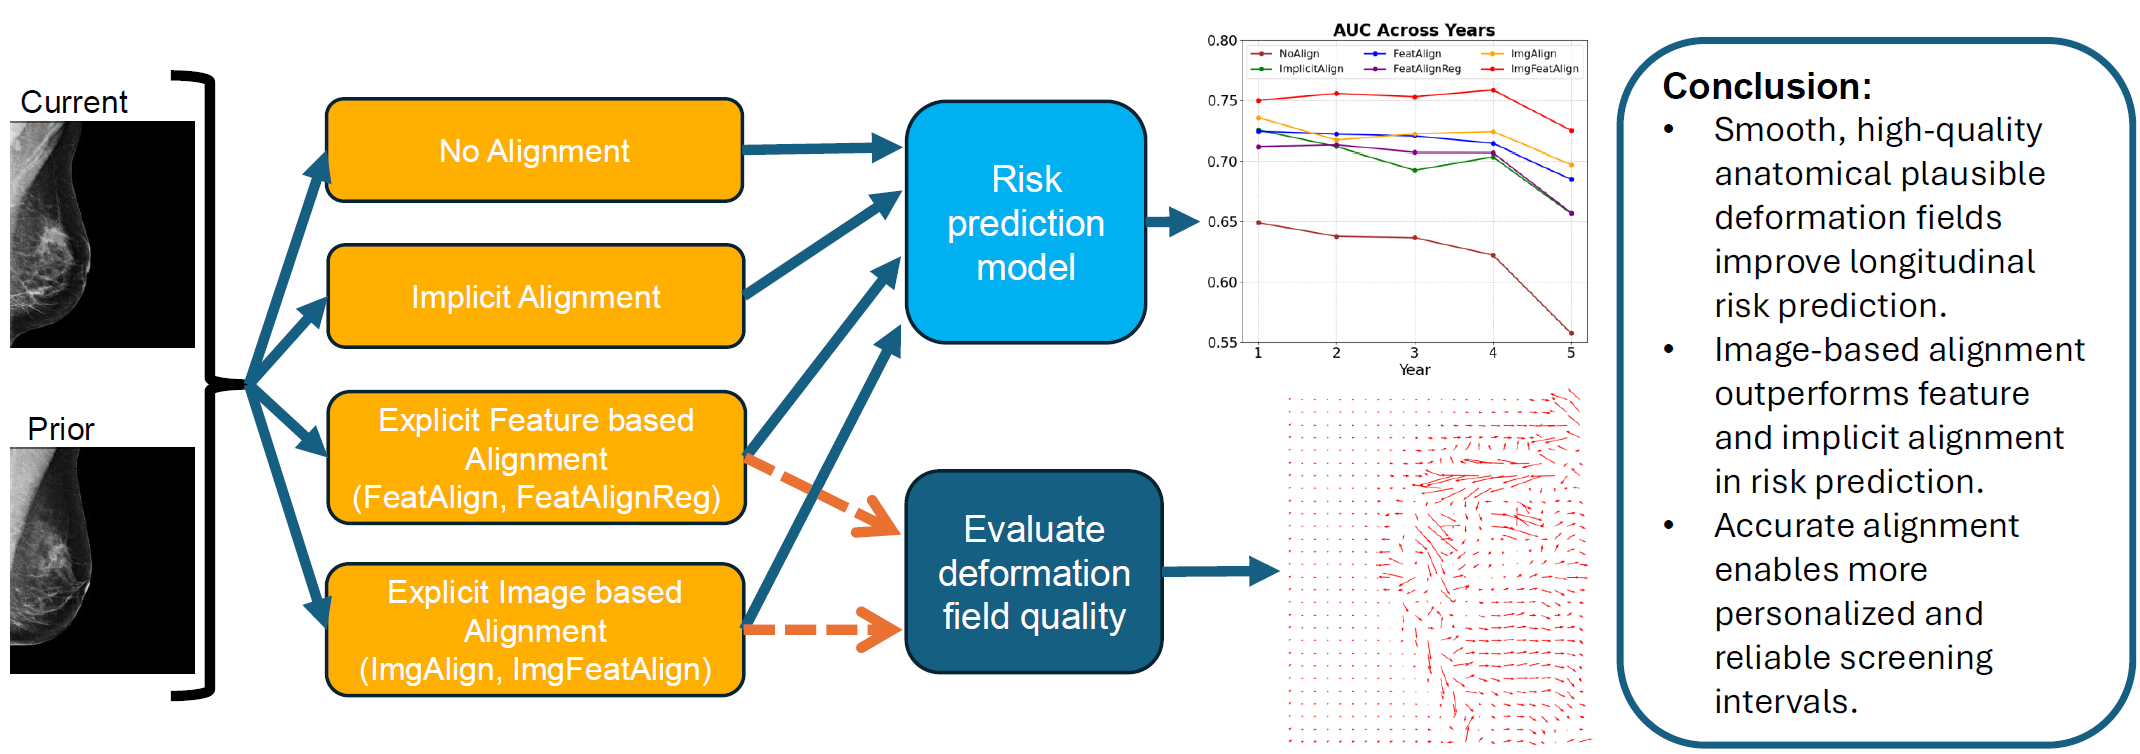
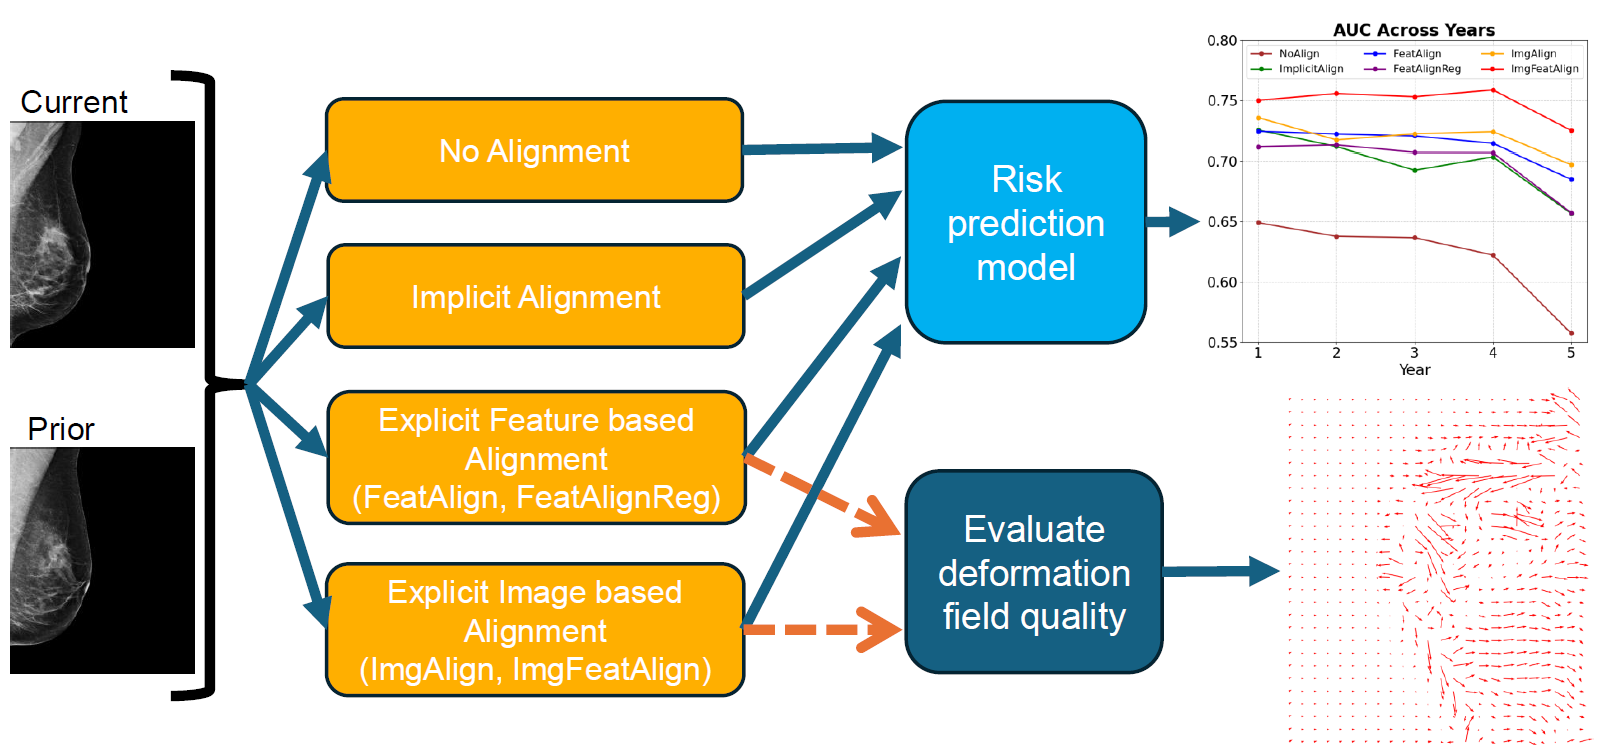
Updated Readme

diff --git a/README.md b/README.md
@@ -1,5 +1,7 @@
 # The Impact of Longitudinal Mammogram Alignment on Breast Cancer Risk Assessment
 
+Code of the paper "The Impact of Longitudinal Mammogram Alignment on Breast Cancer Risk Assessment". 
+
 ## Table of Contents
 1. [Introduction](#introduction)
 2. [Method](#method)
@@ -10,21 +12,48 @@
 
 
 ## Introduction
+This project focuses on breast cancer risk prediction using longitudinal mammography. 
+By incorporating both current and prior scans, the model captures temporal changes in breast tissue, leading to improved prediction accuracy. 
+Accurately modeling these changes requires proper alignment across time points.
+Alignment can be performed explicitly—by registering images or their feature representations—or implicitly, using deep learning models that learn temporal dependencies directly from data.
+Although several alignment methods have been proposed, their effectiveness for downstream tasks such as risk prediction remains underexplored. 
+This project provides a unified framework to compare alignment techniques and examine how alignment quality influences predictive performance.
 
-This repository gives you access to the code necessary to:
-- Train 
-- TODO
-- 
+
+This repository provides the code necessary to:
+- Train a deep learning-based image registration model for longitudinal mammography images (MammoRegNet)
+- Register longitudinal mammography images using the trained MammoRegNet model
+- Perform breast cancer risk prediction employing different alignment methods for longitudinal mammography images
 
 ## Method
+We compare six alignment strategies for longitudinal breast cancer risk prediction:
 
+- **NoAlign:** Direct feature extraction without any alignment between time points. Serves as the baseline.
+
+
+- **ImplicitAlign:** Temporal dependencies are learned directly from the data without any explicit alignment or deformation modeling.
+
+
+- **Feature-Level Alignment:**  
+  - **FeatAlign**: Joint training of the alignment module and risk prediction model using an L2 alignment loss.
+  - **FeatAlignReg**: Extension of *FeatAlign* with an added regularization loss to promote more stable and accurate alignment.
+
+
+- **Image-Level Alignment:**  
+  - **ImgAlign**: Applies MammoRegNet to align mammograms before feature extraction.
+  - **ImgFeatAlign**: Applies MammoRegNet’s deformation field in the feature space to warp extracted features instead of images.
+
+
+<p align="center">
+  <img src="Figures/Overview.png" alt="Image 1" width="600"/>
+</p>
 
 ## Key findings of the paper
 
 
 
 ## Datasets
-We used two wo large, publicly available mammography datasets :
+We used two large, publicly available mammography datasets :
 - **Emory Breast Imaging Dataset (EMBED)**: https://aws.amazon.com/marketplace/pp/prodview-unw4li5rkivs2#overview}
 - **Cohort of Screen-Aged Women Case Control (CSAW-CC)**: https://snd.se/en/catalogue/dataset/2021-204-1
 
